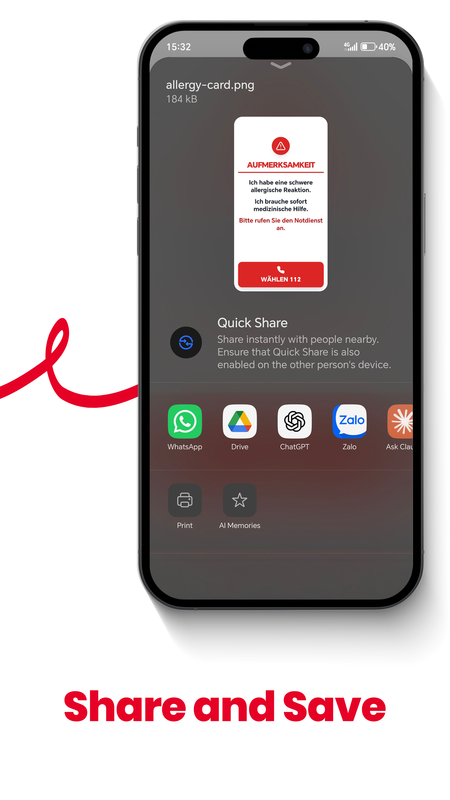
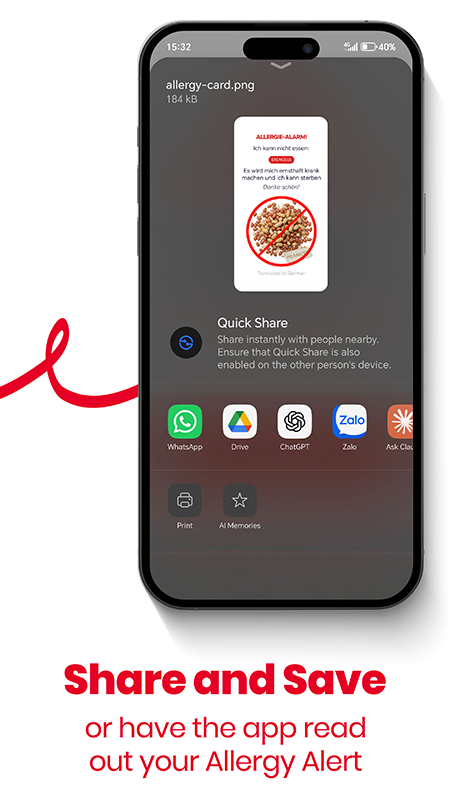
[dyad] Implement Firebase Crashlytics and Analytics for Android.

diff --git a/src/pages/Home.tsx b/src/pages/Home.tsx
@@ -9,6 +9,8 @@ import { storage, STORAGE_KEYS } from '@/lib/storage';
 import { SavedCard } from '@/lib/types';
 import { cn } from '@/lib/utils';
 import { useBilling } from '@/hooks/useBilling';
+import { FirebaseCrashlytics } from '@capacitor-firebase/crashlytics';
+import { Capacitor } from '@capacitor/core';
 
 const Home = () => {
   const navigate = useNavigate();
@@ -40,6 +42,18 @@ const Home = () => {
       navigate('/select-allergens');
     } else {
       navigate('/onboarding');
+    }
+  };
+
+  const triggerTestCrash = async () => {
+    if (Capacitor.isNativePlatform()) {
+      try {
+        await FirebaseCrashlytics.crash({ message: 'Test crash from React' });
+      } catch (error) {
+        console.error('Failed to trigger crash:', error);
+      }
+    } else {
+      alert('Crash only works on native platforms');
     }
   };
 
@@ -104,6 +118,14 @@ const Home = () => {
             <p className="text-[10px] text-gray-400 dark:text-gray-500 uppercase tracking-widest font-bold">
               © 2026 <a href="https://dpbcreative.com/" target="_blank" rel="noopener noreferrer" className="hover:text-red-600 transition-colors">dpb creative</a>
             </p>
+            {process.env.NODE_ENV === 'development' && (
+              <button
+                onClick={triggerTestCrash}
+                className="text-[8px] text-gray-300 dark:text-gray-700 hover:text-red-500 transition-colors mt-1"
+              >
+                Debug: Test Crash
+              </button>
+            )}
           </div>
         </div>
       </div>

diff --git a/src/App.tsx b/src/App.tsx
@@ -10,6 +10,9 @@ import { storage, STORAGE_KEYS } from "./lib/storage";
 import { useDeepLinks } from "./hooks/useDeepLinks";
 import { initBilling } from "./lib/billing";
 import { BillingProvider } from "./hooks/useBilling";
+import { FirebaseCrashlytics } from '@capacitor-firebase/crashlytics';
+import { FirebaseAnalytics } from '@capacitor-firebase/analytics';
+import { Capacitor } from '@capacitor/core';
 
 // Lazy load pages
 const Home = lazy(() => import("./pages/Home"));
@@ -38,6 +41,20 @@ const AppContent = () => {
   useEffect(() => {
     // Initialize billing system
     initBilling();
+
+    // Initialize Firebase if on native platform
+    if (Capacitor.isNativePlatform()) {
+      const initFirebase = async () => {
+        try {
+          await FirebaseAnalytics.setEnabled({ enabled: true });
+          await FirebaseCrashlytics.setEnabled({ enabled: true });
+          console.log('Firebase Analytics & Crashlytics initialized');
+        } catch (error) {
+          console.error('Error initializing Firebase:', error);
+        }
+      };
+      initFirebase();
+    }
 
     const migrate = async () => {
       const hasMigrated = await storage.get(STORAGE_KEYS.HAS_MIGRATED);

diff --git a/privacy-policy.html b/privacy-policy.html
@@ -92,9 +92,10 @@
         <p>Your personal allergy data remains on your device. We do not maintain a central database of your personal allergy profiles. Because your data is stored locally, deleting the app or clearing your browser cache will remove your saved cards.</p>
 
         <h2>4. Data Sharing and Third Parties</h2>
-        <p>We do not sell or trade your personal information. We only share data with third parties as necessary to provide the app's core functionality:</p>
+        <p>We do not sell or trade your personal information. We only share data with third parties as necessary to provide the app's core functionality and improve stability:</p>
         <ul>
             <li><strong>Google Translate API:</strong> We use Google's services to translate your allergy information. Please refer to Google's Privacy Policy for how they handle translation queries.</li>
+            <li><strong>Firebase Crashlytics & Analytics:</strong> We use Firebase to monitor app stability and understand how the app is used. This helps us fix bugs and improve the user experience. These services may collect device identifiers and crash data.</li>
             <li><strong>Legal Requirements:</strong> We may disclose information if required by law or to protect our rights and safety.</li>
         </ul>
 